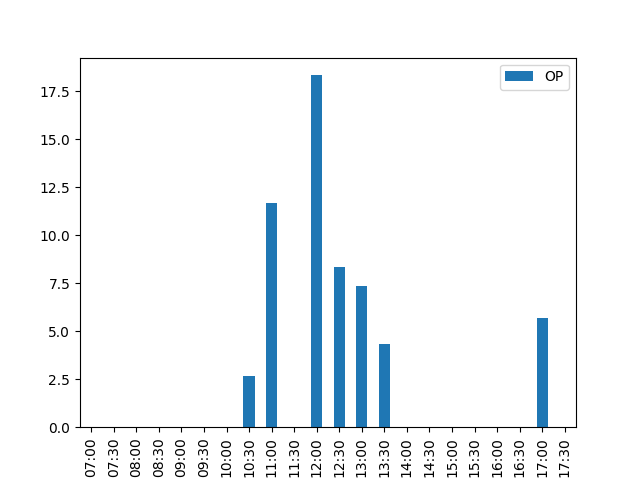
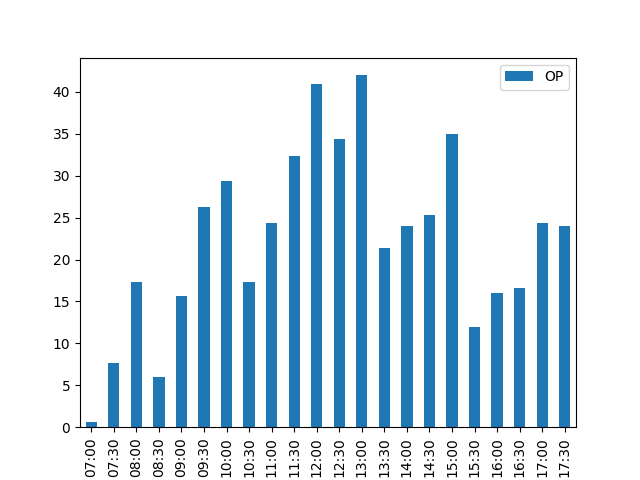
Fixed Orin's Place periodic parsing

diff --git a/parsing.py b/parsing.py
@@ -116,8 +116,9 @@ def parsedData():
     if slice["Date"] != "---" and slice["Date"] != curr_day:
       curr_day = slice["Date"]
       op_days[int(curr_day) % 7] += 1
-    if slice["Day Part"] != "---" and slice["Table Type"] == "---":
-      op_sum[times.index((slice["Day Part"])[:5])][int(slice["Date"]) % 7] += slice["# Trans"]
+    if slice["Day Part"] != "---" and slice["Table Type"] != "---":
+      if int((slice["Day Part"])[:2]) < 18:
+        op_sum[times.index((slice["Day Part"])[:5])][int(slice["Date"]) % 7] += slice["# Trans"]
   for timeslot in op_sum:
     for day in range(7):
       if op_days[day] > 1:
@@ -387,7 +388,7 @@ def parsedHalfHourData():
   return res
 
 if __name__ == "__main__":
-  #print(parsedData())
+  print(parsedData())
   print(parsedTotals())
   #print(parsedHours())
   #print(parsedStaffing())
